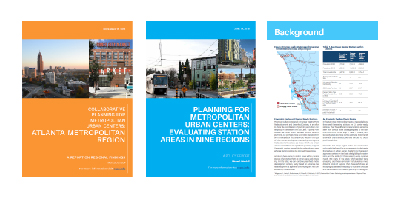
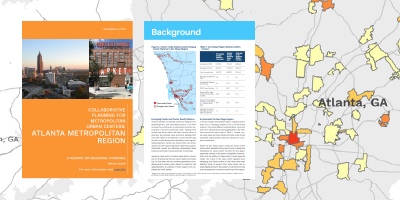
update

diff --git a/css/singlePageTemplate.css b/css/singlePageTemplate.css
@@ -1,6 +1,6 @@
+@charset "UTF-8";
 @import url('https://fonts.googleapis.com/css?family=Mukta');
 @import url('https://fonts.googleapis.com/css?family=Work+Sans');
-@charset "UTF-8";
 /* Body */
 body {
 	font-family: Work Sans, Mukta, "Myriad Pro", "DejaVu Sans Condensed", Helvetica, Arial, "sans-serif";
@@ -65,7 +65,7 @@ ul li:hover a {
 	color: #2C9AB7;
 }
 .hero_header {
-	color: #FFFFFF;
+	color: #23253F;
 	text-align: center;
 	margin-top: 0px;
 	margin-right: 0px;
@@ -75,7 +75,7 @@ ul li:hover a {
 }
 /* Hero Section */
 .hero {
-	background-color: #9E9E9E;
+	background-color: #FFFFFF;
 	padding-top: 50px;
 	padding-bottom: 10px;
 }
@@ -85,7 +85,7 @@ ul li:hover a {
 }
 .tagline {
 	text-align: center;
-	color: #FFFFFF;
+	color: #23253F;
 	margin-top: 4px;
 	font-weight: lighter;
 	text-transform: uppercase;
@@ -93,23 +93,25 @@ ul li:hover a {
 }
 /* About Section */
 .text_column {
-	width: 45%;
+	width: 100%;
 	text-align: justify;
 	font-weight: lighter;
 	line-height: 25px;
-	float: left;
+	float: center;
 	padding-left: 20px;
 	padding-right: 20px;
-	color: #FFFFFF;
+	color: #23253F;
 }
 .about {
 	padding-left: 25px;
 	padding-right: 25px;
 	padding-top: 0px;
-	padding-bottom: 50px;
+	padding-bottom: 0px;
 	display: inline-block;
-	background-color: #9E9E9E;
+	background-color: #FFFFFF;
 	margin-top: 0px;
+	margin-left: 25%;
+	margin-right: 25%;
 }
 /* Stats Gallery */
 .stats {
@@ -201,8 +203,8 @@ footer .footer_column p {
 	max-width: 400px;
 	max-height: 200px;
 	outline-style: solid;
-	outline-color: 3A455F;
-	outline-width: 1px
+	outline-color: #53485A;
+	outline-width: 2px
 }
 footer .footer_column p {
 	padding-left: 30px;
@@ -229,9 +231,9 @@ footer .footer_column p {
 	text-transform: uppercase;
 	font-weight: bold;
 	letter-spacing: 2px;
-	border: 3px solid #FFFFFF;
-	color: #FFFFFF;
-	transition: all 0.3s linear;
+	border: 2px solid #53485A;
+	color: #53485A;
+	transition: all 0.1s linear;
 }
 .button:hover {
 	background-color: #FEFEFE;
@@ -250,7 +252,7 @@ footer .footer_column p {
 	border-top-width: 2px;
 }
 .footer_banner {
-	background-color: #5B5B5B;
+	background-color: #FFFFFF;
 	padding-top: 60px;
 	padding-bottom: 60PX;
 	margin-bottom: 0px;

diff --git a/index.html b/index.html
@@ -36,8 +36,7 @@
 <!-- About Section -->
   <section class="about" id="about">
     <h2 class="hidden">About</h2>
-    <p class="text_column">I am a urban systems analyst and planner with extensive research and data analysis experience in science communication and policy and community and regional planning. </p>
-    <p class="text_column">I help policymakers  craft evidence based policy, and planners manage and fasttrack projects ranging from economic analyses, to environmental review, to transportation demand estimates, to communication and outreach.</p>
+    <p class="text_column">I am a urban systems analyst and planner with extensive research and data analysis experience in science communication and policy and community and regional planning. I help policymakers  craft evidence based policy, and planners manage and fast-track projects ranging from economic analyses, to environmental review, to transportation demand estimates, to communication and outreach.</p>
   </section>
   <!-- More Info Section -->
   <footer>
